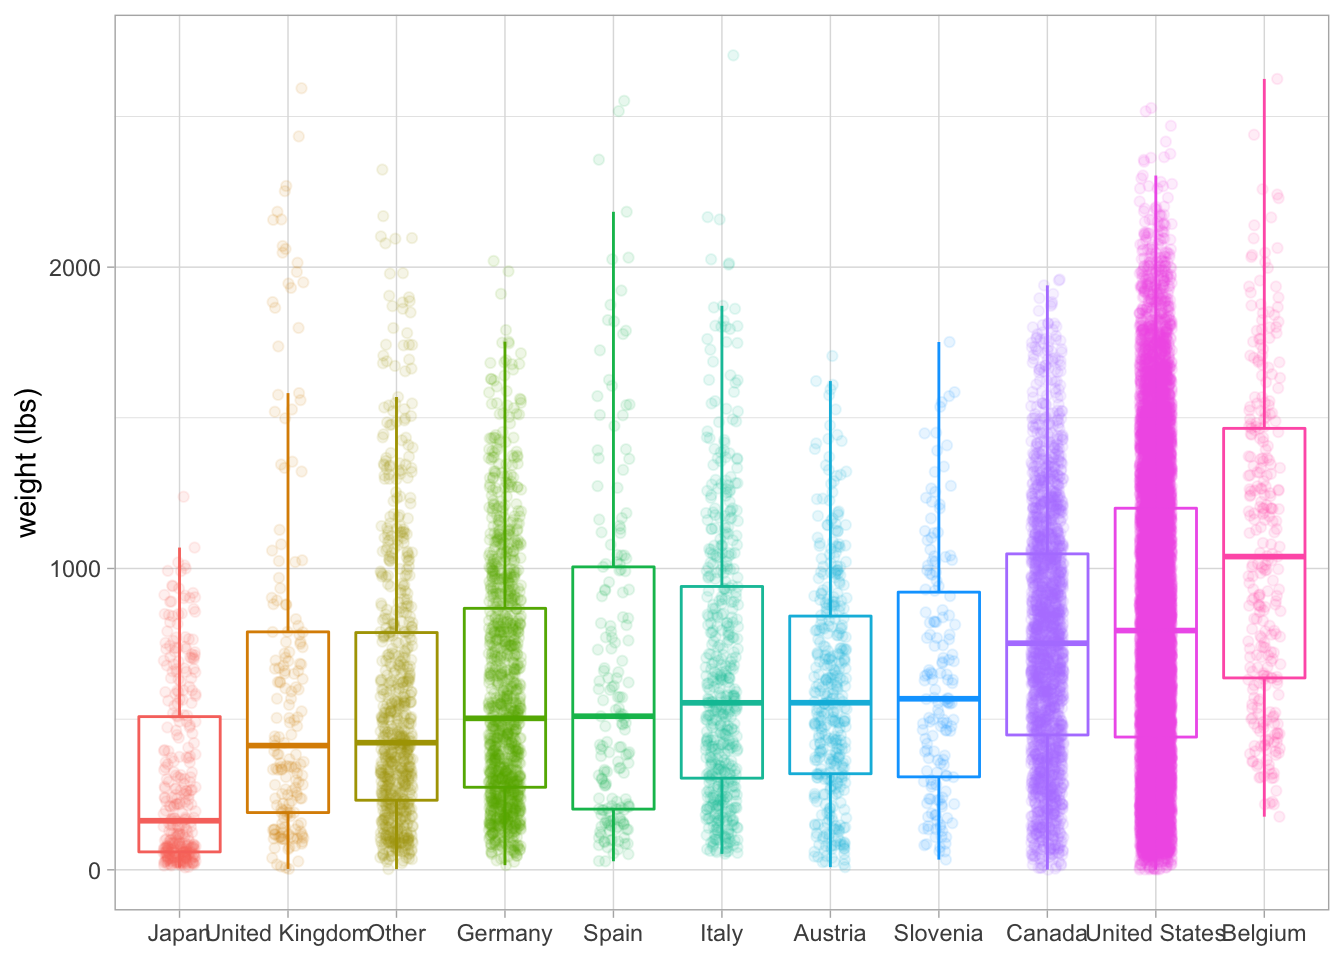
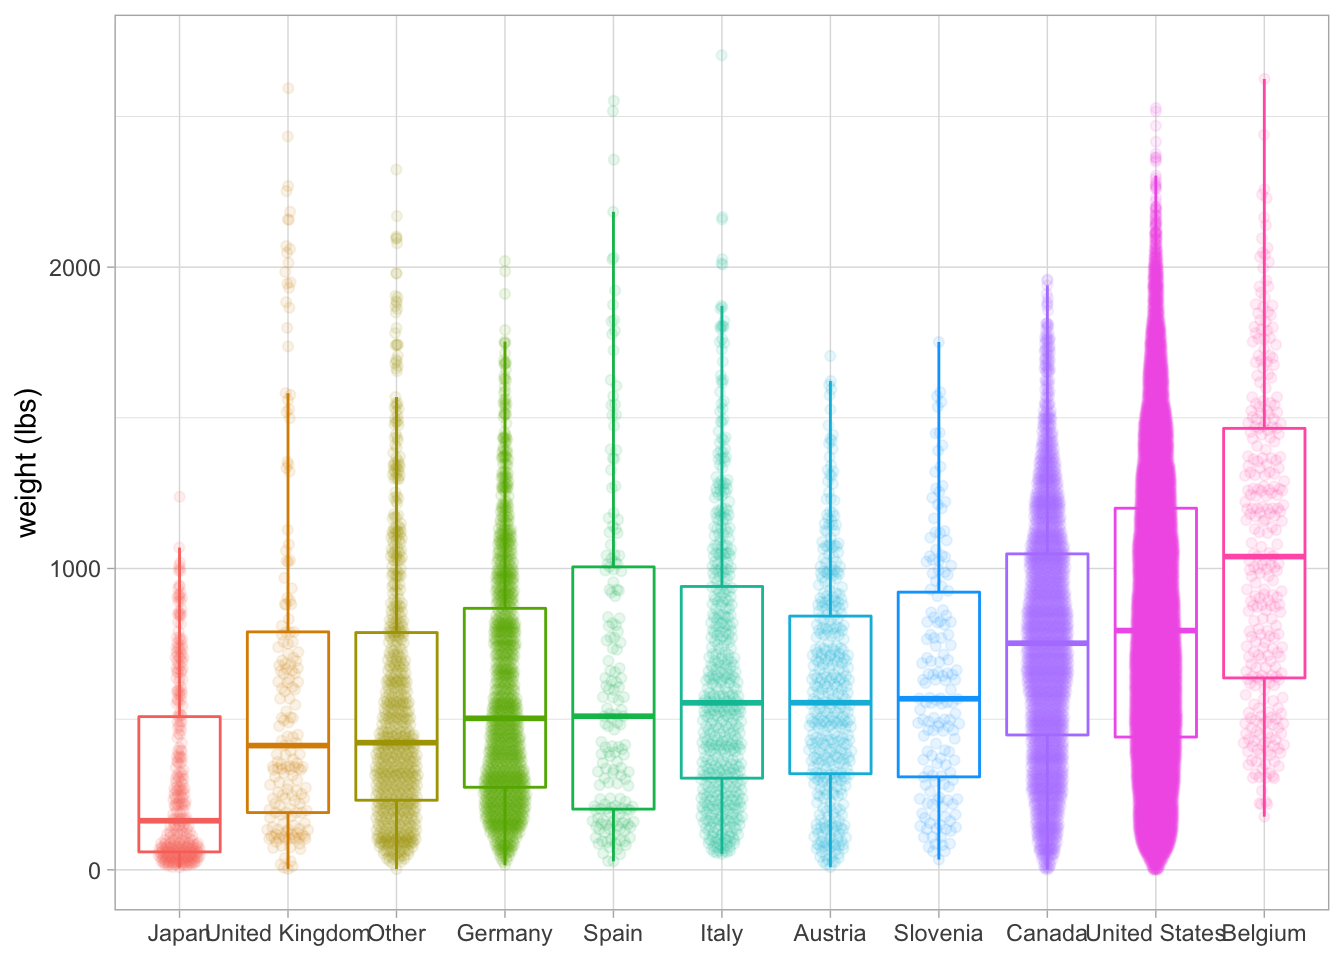
comment

diff --git a/content/blog/2021-10-24-test-hide-code/index.en.html b/content/blog/2021-10-24-test-hide-code/index.en.html
@@ -95,14 +95,15 @@ Explanation
 <img src="{{< blogdown/postref >}}index.en_files/figure-html/unnamed-chunk-6-1.png" width="672" />
 <button class="cb" onclick="myFunction(myDIV3)">Code</button>
 <div id="myDIV3" style="display: none">
-<pre class="r"><code>pumpkins %&gt;%
+<pre class="r"><code>library(ggbeeswarm)
+pumpkins %&gt;%
   mutate(
     country = fct_lump(country, n = 10),
     country = fct_reorder(country, weight_lbs)
   ) %&gt;%
   ggplot(aes(country, weight_lbs, color = country)) +
   geom_boxplot(outlier.colour = NA) +
-  geom_jitter(alpha = 0.1, width = 0.15) +
+  geom_quasirandom(alpha=0.1, width=0.2) +
   labs(x = NULL, y = &quot;weight (lbs)&quot;) +
   theme(legend.position = &quot;none&quot;)</code></pre>
 </div>
@@ -342,7 +343,7 @@ ggMarginal(p, type = &quot;densigram&quot;,
 Explanation
 </button>
 <div id="klDVZ0fncK" style="display: none">
-
+<p>Already added to the schedule!</p>
 </div>
 </figure>
 <figure style="padding: 0rem; margin: 0rem 0rem">
@@ -357,6 +358,76 @@ ggpairs(iris, columns = 1:4, aes(color = Species, alpha = 0.5))</code></pre>
 Explanation
 </button>
 <div id="zMr6ejl3OQ" style="display: none">
+<p>Already added to the schedule!</p>
+</div>
+</figure>
+<figure style="padding: 0rem; margin: 0rem 0rem">
+<img src="{{< blogdown/postref >}}index.en_files/figure-html/unnamed-chunk-26-1.png" width="672" />
+<button class="cb" onclick="myFunction(atK5FQwQxp)">Code</button>
+<div id="atK5FQwQxp" style="display: none">
+<pre class="r"><code>departures_raw &lt;- read_csv(&quot;https://raw.githubusercontent.com/rfordatascience/tidytuesday/master/data/2021/2021-04-27/departures.csv&quot;)
+
+departures_raw %&gt;%
+  filter(departure_code &lt; 9) %&gt;%
+  mutate(involuntary = if_else(departure_code %in% 3:4, &quot;involuntary&quot;, &quot;other&quot;)) %&gt;%
+  filter(fyear &gt; 1995, fyear &lt; 2019) %&gt;%
+  count(fyear, involuntary) %&gt;%
+  ggplot(aes(fyear, n, color = involuntary)) +
+  geom_line(size = 1.2, alpha = 0.5) +
+  geom_point(size = 2) +
+  geom_smooth(method = &quot;lm&quot;, lty = 2) +
+  scale_y_continuous(limits = c(0, NA)) +
+  labs(x = NULL, y = &quot;Number of CEO departures&quot;, color = NULL) +
+  theme(legend.position = &quot;bottom&quot;,
+        legend.justification = &quot;left&quot;) </code></pre>
+</div>
+<button class="cb" onclick="myFunction(uwVqUoN3uR)">
+Explanation
+</button>
+<div id="uwVqUoN3uR" style="display: none">
+<p>Already added to the schedule!</p>
+</div>
+</figure>
+<figure style="padding: 0rem; margin: 0rem 0rem">
+<img src="{{< blogdown/postref >}}index.en_files/figure-html/unnamed-chunk-28-1.png" width="672" />
+<button class="cb" onclick="myFunction(umxUunxEcM)">Code</button>
+<div id="umxUunxEcM" style="display: none">
+<pre class="r"><code>bird_baths &lt;- readr::read_csv(&quot;https://raw.githubusercontent.com/rfordatascience/tidytuesday/master/data/2021/2021-08-31/bird_baths.csv&quot;) 
+
+top_birds &lt;-
+  bird_baths %&gt;%
+  filter(is.na(urban_rural)) %&gt;%
+  arrange(-bird_count) %&gt;%
+  slice_max(bird_count, n = 15) %&gt;%
+  pull(bird_type)
+
+bird_parsed &lt;-
+  bird_baths %&gt;%
+  filter(
+    !is.na(urban_rural),
+    bird_type %in% top_birds
+  ) %&gt;%
+  group_by(urban_rural, bird_type) %&gt;%
+  summarise(bird_count = mean(bird_count), .groups = &quot;drop&quot;)
+
+
+bird_parsed %&gt;%
+  ggplot(aes(bird_count, bird_type)) +
+  geom_segment(
+    data = bird_parsed %&gt;%
+      pivot_wider(
+        names_from = urban_rural,
+        values_from = bird_count),
+    aes(x = Rural, xend = Urban, y = bird_type, yend = bird_type),
+    alpha = 0.7, color = &quot;gray70&quot;, size = 1.5) +
+  geom_point(aes(color = urban_rural), size = 3) +
+  scale_x_continuous(labels = scales::percent) +
+  labs(x = &quot;Probability of seeing bird&quot;, y = NULL, color = NULL)</code></pre>
+</div>
+<button class="cb" onclick="myFunction(3JUMz2jSUp)">
+Explanation
+</button>
+<div id="3JUMz2jSUp" style="display: none">
 
 </div>
 </figure>
